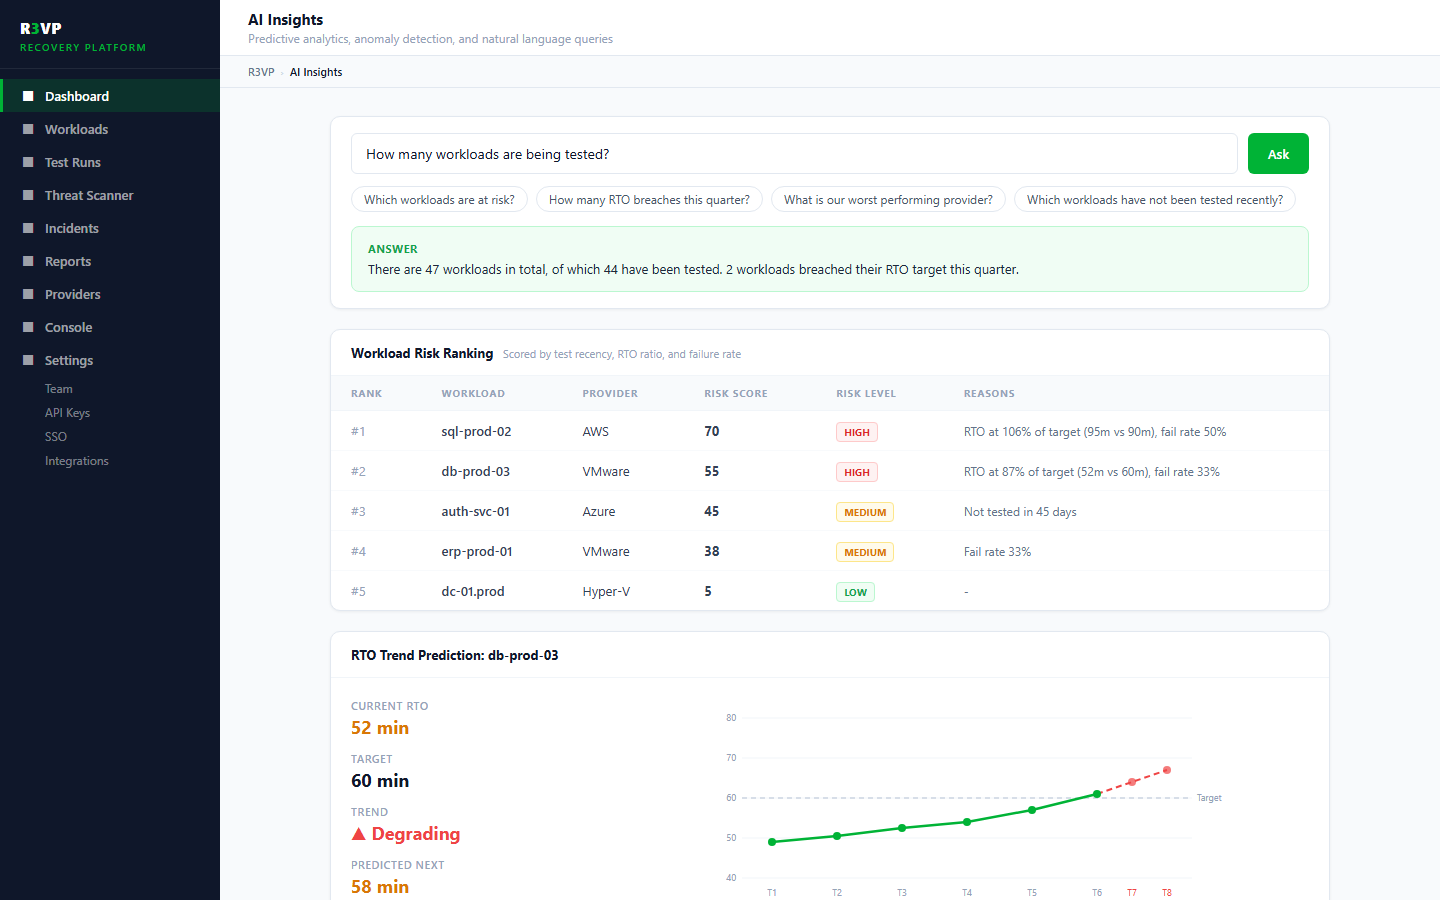
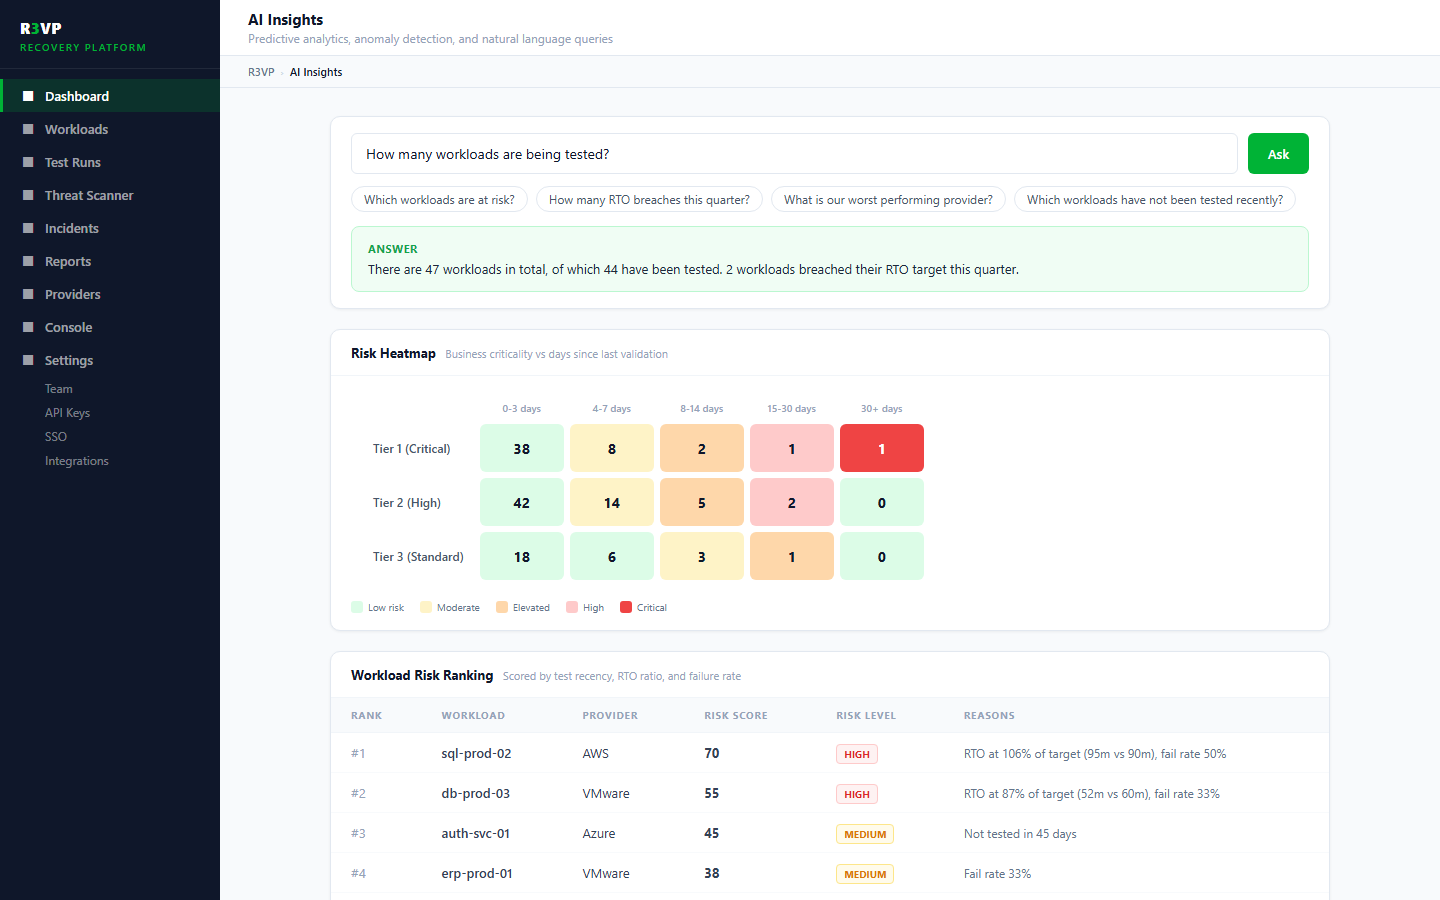
Refresh AI Insights screenshot with risk heatmap; add reusable capture script
- Add the risk heatmap to mockup-ai-insights.html (matches the portal
  insights view) and regenerate ai-insights.png
- Consolidate the phase-specific capture scripts into a single reusable
  docs/screenshots/capture.py (Playwright, 1440x900, per-page filter)

diff --git a/docs/screenshots/mockup-ai-insights.html b/docs/screenshots/mockup-ai-insights.html
@@ -119,6 +119,58 @@ th,td{padding:10px 16px}
     </div>
   </div>
 
+  <!-- Risk Heatmap -->
+  <div class="card">
+    <div class="card-hd">Risk Heatmap <span style="font-size:11px;font-weight:400;color:#94A3B8;margin-left:6px">Business criticality vs days since last validation</span></div>
+    <div class="card-body">
+      <table style="border-collapse:separate;border-spacing:6px">
+        <thead>
+          <tr>
+            <th></th>
+            <th style="font-size:10px;font-weight:600;color:#94A3B8;text-align:center;padding:0 4px">0-3 days</th>
+            <th style="font-size:10px;font-weight:600;color:#94A3B8;text-align:center;padding:0 4px">4-7 days</th>
+            <th style="font-size:10px;font-weight:600;color:#94A3B8;text-align:center;padding:0 4px">8-14 days</th>
+            <th style="font-size:10px;font-weight:600;color:#94A3B8;text-align:center;padding:0 4px">15-30 days</th>
+            <th style="font-size:10px;font-weight:600;color:#94A3B8;text-align:center;padding:0 4px">30+ days</th>
+          </tr>
+        </thead>
+        <tbody>
+          <tr>
+            <td style="font-size:12px;font-weight:600;color:#475569;white-space:nowrap;padding-right:10px">Tier 1 (Critical)</td>
+            <td style="background:#DCFCE7;border-radius:6px;text-align:center;width:84px;height:48px;font-weight:700;font-size:14px;color:#0F172A">38</td>
+            <td style="background:#FEF3C7;border-radius:6px;text-align:center;width:84px;height:48px;font-weight:700;font-size:14px;color:#0F172A">8</td>
+            <td style="background:#FED7AA;border-radius:6px;text-align:center;width:84px;height:48px;font-weight:700;font-size:14px;color:#0F172A">2</td>
+            <td style="background:#FECACA;border-radius:6px;text-align:center;width:84px;height:48px;font-weight:700;font-size:14px;color:#0F172A">1</td>
+            <td style="background:#EF4444;border-radius:6px;text-align:center;width:84px;height:48px;font-weight:700;font-size:14px;color:#fff">1</td>
+          </tr>
+          <tr>
+            <td style="font-size:12px;font-weight:600;color:#475569;white-space:nowrap;padding-right:10px">Tier 2 (High)</td>
+            <td style="background:#DCFCE7;border-radius:6px;text-align:center;width:84px;height:48px;font-weight:700;font-size:14px;color:#0F172A">42</td>
+            <td style="background:#FEF3C7;border-radius:6px;text-align:center;width:84px;height:48px;font-weight:700;font-size:14px;color:#0F172A">14</td>
+            <td style="background:#FED7AA;border-radius:6px;text-align:center;width:84px;height:48px;font-weight:700;font-size:14px;color:#0F172A">5</td>
+            <td style="background:#FECACA;border-radius:6px;text-align:center;width:84px;height:48px;font-weight:700;font-size:14px;color:#0F172A">2</td>
+            <td style="background:#DCFCE7;border-radius:6px;text-align:center;width:84px;height:48px;font-weight:700;font-size:14px;color:#0F172A">0</td>
+          </tr>
+          <tr>
+            <td style="font-size:12px;font-weight:600;color:#475569;white-space:nowrap;padding-right:10px">Tier 3 (Standard)</td>
+            <td style="background:#DCFCE7;border-radius:6px;text-align:center;width:84px;height:48px;font-weight:700;font-size:14px;color:#0F172A">18</td>
+            <td style="background:#DCFCE7;border-radius:6px;text-align:center;width:84px;height:48px;font-weight:700;font-size:14px;color:#0F172A">6</td>
+            <td style="background:#FEF3C7;border-radius:6px;text-align:center;width:84px;height:48px;font-weight:700;font-size:14px;color:#0F172A">3</td>
+            <td style="background:#FED7AA;border-radius:6px;text-align:center;width:84px;height:48px;font-weight:700;font-size:14px;color:#0F172A">1</td>
+            <td style="background:#DCFCE7;border-radius:6px;text-align:center;width:84px;height:48px;font-weight:700;font-size:14px;color:#0F172A">0</td>
+          </tr>
+        </tbody>
+      </table>
+      <div style="display:flex;gap:16px;margin-top:14px;font-size:10px;color:#64748B">
+        <span style="display:flex;align-items:center;gap:5px"><span style="width:12px;height:12px;border-radius:3px;background:#DCFCE7;display:inline-block"></span>Low risk</span>
+        <span style="display:flex;align-items:center;gap:5px"><span style="width:12px;height:12px;border-radius:3px;background:#FEF3C7;display:inline-block"></span>Moderate</span>
+        <span style="display:flex;align-items:center;gap:5px"><span style="width:12px;height:12px;border-radius:3px;background:#FED7AA;display:inline-block"></span>Elevated</span>
+        <span style="display:flex;align-items:center;gap:5px"><span style="width:12px;height:12px;border-radius:3px;background:#FECACA;display:inline-block"></span>High</span>
+        <span style="display:flex;align-items:center;gap:5px"><span style="width:12px;height:12px;border-radius:3px;background:#EF4444;display:inline-block"></span>Critical</span>
+      </div>
+    </div>
+  </div>
+
   <!-- Risk Ranking -->
   <div class="card">
     <div class="card-hd">Workload Risk Ranking <span style="font-size:11px;font-weight:400;color:#94A3B8;margin-left:6px">Scored by test recency, RTO ratio, and failure rate</span></div>

diff --git a/docs/screenshots/capture.py b/docs/screenshots/capture.py
@@ -1,0 +1,85 @@
+"""Regenerate README/user-guide screenshots from the mockup HTML files.
+
+Renders each mockup-*.html to a PNG at 1440x900 with headless Chromium.
+
+Usage:
+    # regenerate every screenshot
+    python capture.py
+
+    # regenerate only specific ones (by PNG name, with or without .png)
+    python capture.py ai-insights reports
+
+Requires Playwright:
+    pip install playwright && playwright install chromium
+
+Built by Omar Rao, Engineer - Data Resilience, Cybersecurity and Privacy
+https://www.linkedin.com/in/omarrao/ | https://omarrao.substack.com/
+"""
+import asyncio
+import sys
+from pathlib import Path
+
+from playwright.async_api import async_playwright
+
+BASE = Path(__file__).resolve().parent
+
+# mockup HTML file -> output PNG name
+PAGES = {
+    "mockup-ai-insights.html": "ai-insights.png",
+    "mockup-analytics.html": "analytics.png",
+    "mockup-api-keys.html": "api-keys.png",
+    "mockup-compliance-frameworks.html": "compliance-frameworks.png",
+    "mockup-console.html": "console.png",
+    "mockup-continuous-validation.html": "continuous-validation.png",
+    "mockup-dashboard.html": "dashboard.png",
+    "mockup-demo-dashboard.html": "demo-dashboard.png",
+    "mockup-demo-login.html": "demo-login.png",
+    "mockup-evidence-vault.html": "evidence-vault.png",
+    "mockup-fleet.html": "fleet.png",
+    "mockup-incidents.html": "incidents.png",
+    "mockup-integrations.html": "integrations.png",
+    "mockup-mssp.html": "mssp.png",
+    "mockup-multicloud-dashboard.html": "multicloud-dashboard.png",
+    "mockup-onboarding.html": "onboarding.png",
+    "mockup-providers-p6.html": "providers-p6.png",
+    "mockup-providers.html": "providers.png",
+    "mockup-reports.html": "reports.png",
+    "mockup-runbook-execution.html": "runbook-execution.png",
+    "mockup-runbooks.html": "runbooks.png",
+    "mockup-schedule.html": "schedule.png",
+    "mockup-scorecard.html": "scorecard.png",
+    "mockup-sso.html": "sso.png",
+    "mockup-team.html": "team.png",
+    "mockup-testrun.html": "test-run-detail.png",
+    "mockup-threat-scanner.html": "threat-scanner.png",
+    "mockup-workloads.html": "workloads.png",
+}
+
+
+async def capture(pairs: list[tuple[str, str]]) -> None:
+    async with async_playwright() as p:
+        browser = await p.chromium.launch()
+        page = await browser.new_page(viewport={"width": 1440, "height": 900})
+        for html, png in pairs:
+            url = "file:///" + str(BASE / html).replace("\\", "/")
+            await page.goto(url, wait_until="networkidle")
+            await page.screenshot(path=str(BASE / png), full_page=False)
+            print(f"Done: {png}")
+        await browser.close()
+
+
+def main() -> None:
+    wanted = {a.removesuffix(".png") for a in sys.argv[1:]}
+    if wanted:
+        pairs = [(h, p) for h, p in PAGES.items() if p.removesuffix(".png") in wanted]
+        missing = wanted - {p.removesuffix(".png") for _, p in pairs}
+        if missing:
+            print(f"Unknown screenshot name(s): {', '.join(sorted(missing))}")
+            sys.exit(1)
+    else:
+        pairs = list(PAGES.items())
+    asyncio.run(capture(pairs))
+
+
+if __name__ == "__main__":
+    main()

diff --git a/CHANGELOG.md b/CHANGELOG.md
@@ -7,6 +7,14 @@ https://www.linkedin.com/in/omarrao/ | https://omarrao.substack.com/
 
 ---
 
+## [Unreleased] - Screenshot Refresh
+
+### Documentation
+- Added the graphical risk heatmap to the AI Insights mockup and regenerated `ai-insights.png` so the documentation screenshots match the portal's insights view (criticality vs validation-age heatmap above the risk-ranking table)
+- Consolidated the three ad-hoc screenshot capture scripts into a single reusable `docs/screenshots/capture.py` (Playwright, 1440x900) that maps every mockup HTML to its PNG and accepts optional page-name filters for targeted regeneration
+
+---
+
 ## [Unreleased] - Source-Code Protection Hardening
 
 ### Security / Supply Chain